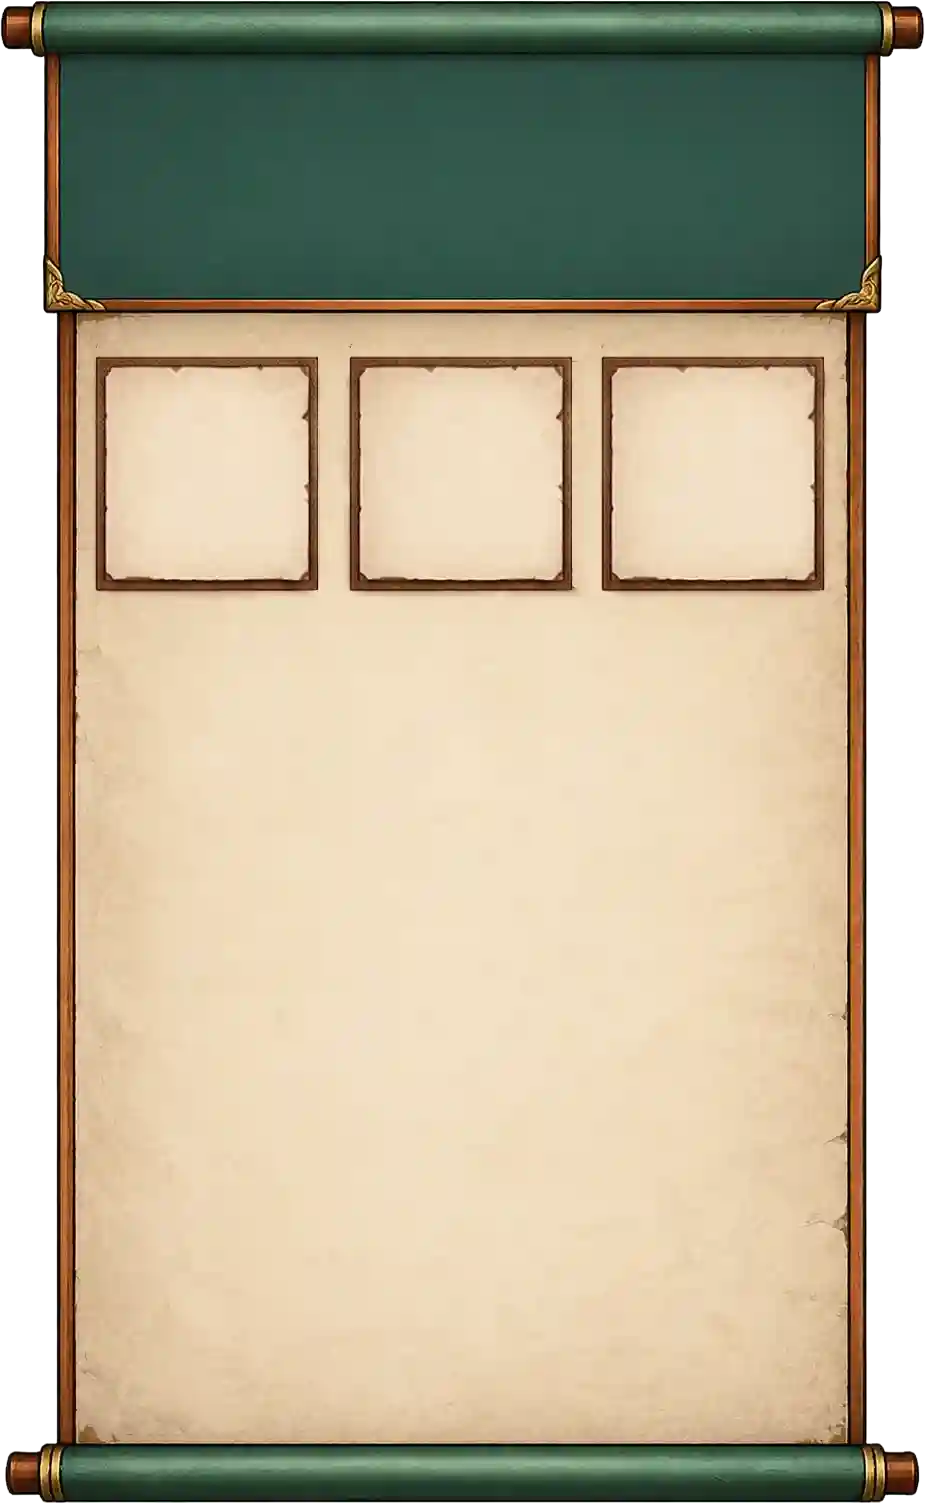
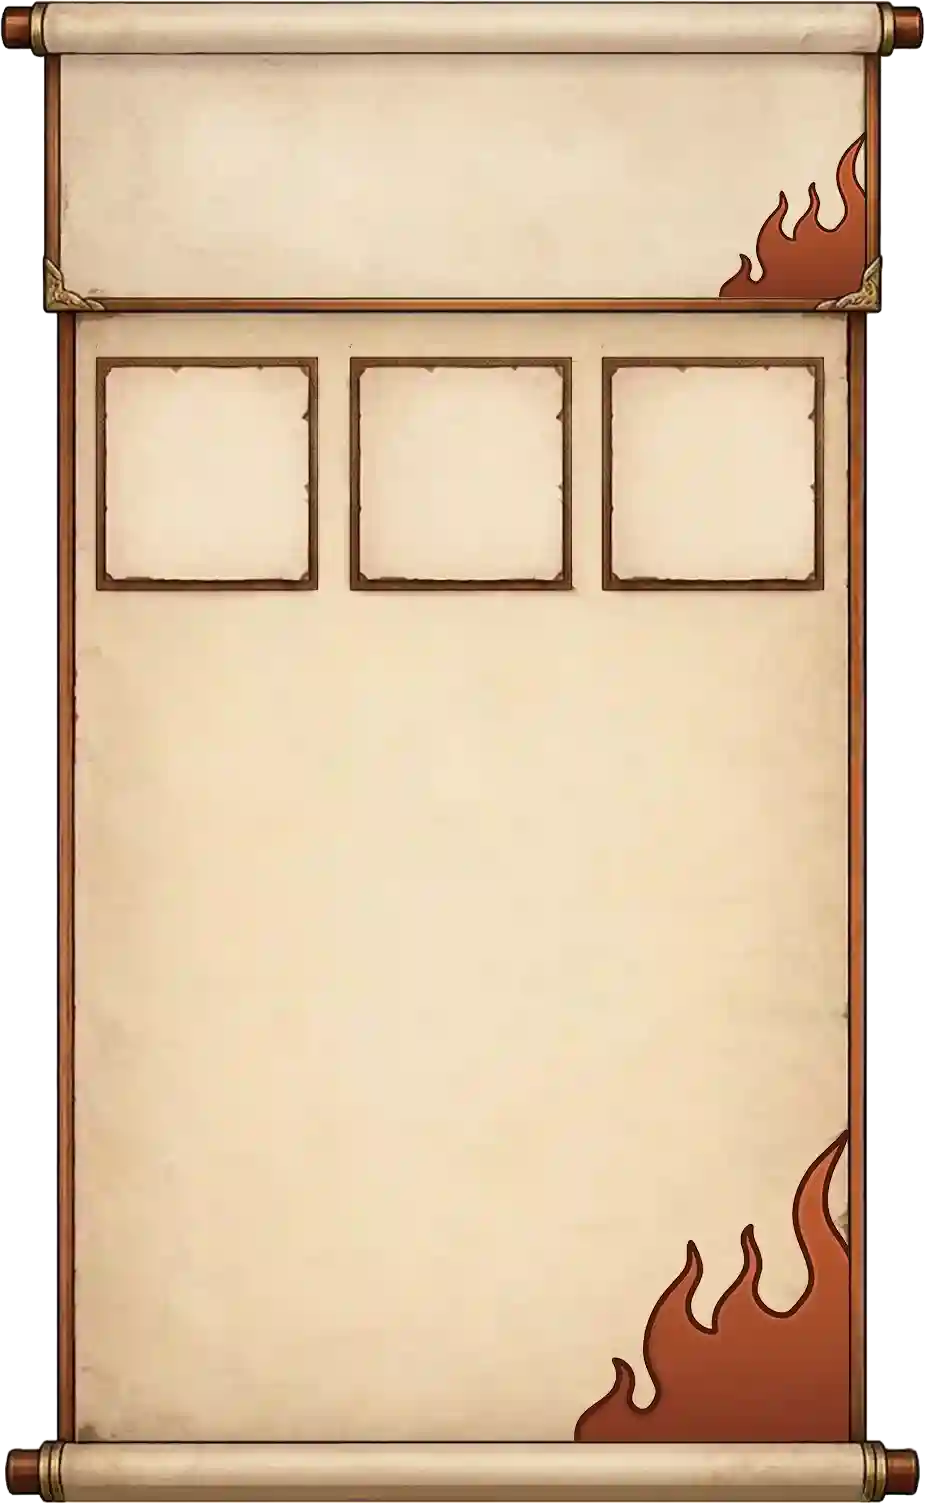
battle

Changed region(s): [[0.0, 0.0, 0.9989, 1.0]]

diff --git a/src/components/BattleBoard.tsx b/src/components/BattleBoard.tsx
@@ -17795,7 +17795,7 @@ const shieldDurText = fmtDur(skill.shieldDuration || 99999);
             </div>
             </div>
           </div>
-          <div className="space-y-4">
+          <div className="space-y-2">
             {playerCombatants.map((combatant, idx) => {
               const isMyTurn = activePlanner === 'player' || isSandbox;
               const isSelectedSource = selectedSkill?.charId === combatant.id;
@@ -17840,18 +17840,26 @@ const shieldDurText = fmtDur(skill.shieldDuration || 99999);
                   {/* Main Combatant Card Container */}
                   <div
 onClick={() => handleSelectTarget(combatant.id, false)}
-                    className={`flex-1 relative p-4 rounded-xl border bg-slate-900/60 transition-all ${
+                    className={`flex-1 relative isolate p-5 rounded-xl transition-all ${
                       combatant.isDead
                         ? (combatant.isDead && isMyTurn && isReviveSelectionActive()
-                          ? 'border-emerald-500/70 hover:border-emerald-400 hover:shadow-emerald-500/20 bg-emerald-950/30 opacity-80 cursor-pointer shadow-lg animate-pulse'
-                          : 'border-slate-950 bg-slate-950/40 opacity-40 pointer-events-none')
+                          ? 'opacity-80 cursor-pointer shadow-lg shadow-emerald-500/30 ring-2 ring-emerald-500/40 hover:ring-emerald-400/80 animate-pulse'
+                          : 'opacity-40 pointer-events-none')
                         : !isMyTurn
-                        ? 'border-slate-800/50 opacity-50'
+                        ? 'opacity-50'
                         : selectedSkill && selectedSkill.charId !== combatant.id
-                        ? 'border-blue-500/40 hover:border-blue-500 bg-blue-950/5 cursor-pointer shadow-lg shadow-blue-500/5'
-                        : 'border-slate-800'
+                        ? 'cursor-pointer'
+                        : ''
                     }`}
                   >
+                    {/* P-batalha parchment background (lado aliado) */}
+                    <img
+                      src="/static/img/ui/p-batalha.webp"
+                      alt=""
+                      aria-hidden
+                      draggable={false}
+                      className="absolute inset-0 w-full h-full object-cover rounded-xl -z-10 pointer-events-none select-none"
+                    />
                     {/* Floating combat numbers portal */}
                     <div className="absolute -top-3 left-4 z-10 flex flex-col gap-1 pointer-events-none">
                       {floatingTexts
@@ -17916,7 +17924,7 @@ onClick={() => handleSelectTarget(combatant.id, false)}
                   )}
 
                   {/* Character Info */}
-                  <div className="flex gap-3">
+                  <div className="flex gap-4">
                     {(() => {
                       const isInvul = checkCombatantInvulnerable(combatant);
                       const invulnEff = isInvul ? combatant.activeEffects.find(e => e.type === 'invulnerable') : undefined;
@@ -17929,7 +17937,7 @@ onClick={() => handleSelectTarget(combatant.id, false)}
                       const displayPortrait = (isInvul && invulnSkillIcon) ? invulnSkillIcon : combatant.character.portrait;
 
                       return (
-                        <div className={`w-14 h-14 rounded-lg overflow-hidden border flex-shrink-0 relative transition-all ${
+                        <div className={`w-16 h-16 rounded-lg overflow-hidden border flex-shrink-0 relative transition-all ${
                           isInvul ? 'border-cyan-400 shadow-[0_0_12px_rgba(34,211,238,0.8)] bg-slate-950' : 'border-slate-800 bg-slate-950'
                         }`}>
                           <MangekyoLoader
@@ -17962,9 +17970,9 @@ onClick={() => handleSelectTarget(combatant.id, false)}
                       );
                     })()}
 
-                    <div className="flex-1 space-y-1.5">
+                    <div className="flex-1 space-y-2">
                       <div className="flex justify-between items-start">
-                        <h4 className="font-bold text-sm tracking-tight flex items-center gap-1.5 flex-wrap">
+                        <h4 className="font-bold text-base tracking-tight text-[#823500] flex items-center gap-1.5 flex-wrap">
                           {combatant.character.name}
                           {checkCombatantInvulnerable(combatant) && (
                             <span className="inline-flex items-center gap-0.5 text-[8px] bg-cyan-600/90 border border-cyan-300/80 text-white px-1.5 py-0.5 rounded-full font-mono font-black uppercase tracking-wide shadow-[0_0_8px_rgba(34,211,238,0.7)]">
@@ -17992,11 +18000,11 @@ onClick={() => handleSelectTarget(combatant.id, false)}
 
                       {/* Health bar */}
                       <div className="space-y-1">
-                        <div className="flex justify-between text-[10px] font-mono text-slate-400 leading-none">
+                        <div className="flex justify-between text-[11px] font-mono text-slate-400 leading-none">
                            
-                          <span className="font-bold text-slate-100">{combatant.health} / {combatant.maxHealth}</span>
+                          <span className="font-bold text-[#cb6a22]">{combatant.health} / {combatant.maxHealth}</span>
                         </div>
-                        <div className="h-2 w-full bg-slate-950 rounded-full overflow-hidden border border-slate-900">
+                        <div className="h-2.5 w-full bg-slate-950 rounded-full overflow-hidden border border-slate-900">
                           <div
                             className={`h-full transition-all duration-300 ${getHealthColor(combatant.health)}`}
                             style={{ width: `${combatant.health}%` }}
@@ -18170,7 +18178,7 @@ onClick={() => handleSelectTarget(combatant.id, false)}
                     const paginatedSkills = combatant.character.skills.slice(skillsPage * skillsPerPage, (skillsPage + 1) * skillsPerPage);
 
                     return (
-                      <div className="relative pt-3 mt-3 border-t border-slate-800/80">
+                      <div className="relative pt-1 mt-1">
                         {/* Left side pagination arrow */}
                         {totalSkillPages > 1 && (
                           <button
@@ -18192,7 +18200,7 @@ onClick={() => handleSelectTarget(combatant.id, false)}
                           </button>
                         )}
 
-                        <div className="grid grid-cols-4 gap-2">
+                        <div className="grid grid-cols-4 gap-2.5">
                           {paginatedSkills.map((skill, pIdx) => {
                             const sIdx = skillsPage * skillsPerPage + pIdx;
                             const isCooldown = skill.currentCooldown > 0;
@@ -18606,7 +18614,7 @@ onClick={() => handleSelectTarget(combatant.id, false)}
               <div className="flex flex-col h-full space-y-3">
                 {/* Top Green Header Area: No dark background box, clean alignment over green top banner */}
                 <div className="flex items-center gap-3 px-1 pt-0.5 pb-2" style={{ marginTop: '-5px' }}>
-                  <div className="w-12 h-12 rounded-lg overflow-hidden border border-amber-300/60 flex-shrink-0 bg-black/40 shadow-md">
+                  <div className="w-12 h-12 rounded-lg overflow-hidden border border-[#823500] flex-shrink-0 bg-black/40 shadow-md">
                     <img 
                       src={inspectedSkill.skill.icon || null} 
                       alt={inspectedSkill.skill.name} 
@@ -18620,7 +18628,7 @@ onClick={() => handleSelectTarget(combatant.id, false)}
                     <div className="flex flex-wrap items-center gap-2">
                       <div className="group relative inline-block max-w-full">
                         <h4 
-                          className="font-extrabold text-sm sm:text-base text-white tracking-tight drop-shadow-[0_1.5px_3px_rgba(0,0,0,0.9)] leading-tight"
+                          className="font-extrabold text-sm sm:text-base text-[#823500] tracking-tight drop-shadow-[0_1px_1px_rgba(255,255,255,0.6)] leading-tight"
                         >
                           {translateSkillName(inspectedSkill.skill.name, language)}
                         </h4>
@@ -18641,7 +18649,7 @@ onClick={() => handleSelectTarget(combatant.id, false)}
                 </div>
 
                 {/* 3 Papers Grid: Custo, Recarga, Alvo positioned cleanly over paper artwork */}
-                <div className="grid grid-cols-3 gap-1 font-mono pb-3.5 px-1" style={{ paddingTop: '11px' }}>
+                <div className="grid grid-cols-3 gap-1 font-mono pb-3.5 px-1" style={{ paddingTop: '13px' }}>
                   {/* Paper 1: Custo */}
                   <div className="flex flex-col justify-center items-center text-center p-0.5 min-w-0">
                    
@@ -18939,7 +18947,7 @@ onClick={() => handleSelectTarget(combatant.id, false)}
             </div>
           </div>
        
-          <div className="space-y-4">
+          <div className="space-y-2">
             {enemyCombatants.map((combatant, idx) => {
               const isStunned = combatant.activeEffects.some(e => e.type === 'stun' && isEffectVisibleToViewer(e, 'player', playerCombatants, combatant, [...playerCombatants, ...enemyCombatants]));
               const incomingCues = getIncomingCuesForCombatant(combatant);
@@ -18949,16 +18957,24 @@ onClick={() => handleSelectTarget(combatant.id, false)}
                   {/* Main Combatant Card Container */}
                   <div
 onClick={() => handleSelectTarget(combatant.id, true)}
-                    className={`flex-1 relative p-4 rounded-xl border bg-slate-900/60 transition-all ${
+                    className={`flex-1 relative isolate p-5 rounded-xl transition-all ${
                       combatant.isDead
                         ? (isReviveSelectionActive()
-                          ? 'border-emerald-500/70 hover:border-emerald-400 hover:shadow-emerald-500/20 bg-emerald-950/30 opacity-80 cursor-pointer shadow-lg animate-pulse'
-                          : 'border-slate-950 bg-slate-950/40 opacity-40 pointer-events-none')
+                          ? 'opacity-80 cursor-pointer shadow-lg shadow-emerald-500/30 ring-2 ring-emerald-500/40 hover:ring-emerald-400/80 animate-pulse'
+                          : 'opacity-40 pointer-events-none')
                         : selectedSkill && selectedSkill.charId !== combatant.id
-                        ? 'border-red-500/40 hover:border-red-500 bg-red-950/5 cursor-pointer shadow-lg shadow-red-500/5'
-                        : 'border-slate-800'
+                        ? 'cursor-pointer shadow-lg shadow-red-500/25 ring-2 ring-red-500/40 hover:ring-red-400/80'
+                        : ''
                     }`}
                   >
+                    {/* P-batalha parchment background (espelhada para o lado inimigo) */}
+                    <img
+                      src="/static/img/ui/p-batalha.webp"
+                      alt=""
+                      aria-hidden
+                      draggable={false}
+                      className="absolute inset-0 w-full h-full object-cover rounded-xl scale-x-[-1] -z-10 pointer-events-none select-none"
+                    />
                     {/* Floating combat numbers portal */}
                     <div className="absolute -top-3 left-4 z-10 flex flex-col gap-1 pointer-events-none">
                       {floatingTexts
@@ -19023,7 +19039,7 @@ onClick={() => handleSelectTarget(combatant.id, true)}
                   )}
 
                   {/* Character Info */}
-                  <div className="flex gap-3 flex-row-reverse">
+                  <div className="flex gap-4 flex-row-reverse">
                     {(() => {
                       const isInvul = checkCombatantInvulnerable(combatant);
                       const invulnEff = isInvul ? combatant.activeEffects.find(e => e.type === 'invulnerable') : undefined;
@@ -19036,7 +19052,7 @@ onClick={() => handleSelectTarget(combatant.id, true)}
                       const displayPortrait = (isInvul && invulnSkillIcon) ? invulnSkillIcon : combatant.character.portrait;
 
                       return (
-                        <div className={`w-14 h-14 rounded-lg overflow-hidden border flex-shrink-0 relative transition-all ${
+                        <div className={`w-16 h-16 rounded-lg overflow-hidden border flex-shrink-0 relative transition-all ${
                           isInvul ? 'border-cyan-400 shadow-[0_0_12px_rgba(34,211,238,0.8)] bg-slate-950' : 'border-slate-800 bg-slate-950'
                         }`}>
                           <MangekyoLoader
@@ -19070,9 +19086,9 @@ onClick={() => handleSelectTarget(combatant.id, true)}
                       );
                     })()}
 
-                    <div className="flex-1 space-y-1.5">
+                    <div className="flex-1 space-y-2">
                       <div className="flex items-start gap-2 flex-row-reverse">
-                        <h4 className="font-bold text-sm tracking-tight flex items-center gap-1.5 flex-wrap justify-end text-right">
+                        <h4 className="font-bold text-base tracking-tight text-[#823500] flex items-center gap-1.5 flex-wrap justify-end text-right">
                           {combatant.character.name}
                           {checkCombatantInvulnerable(combatant) && (
                             <span className="inline-flex items-center gap-0.5 text-[8px] bg-cyan-600/90 border border-cyan-300/80 text-white px-1.5 py-0.5 rounded-full font-mono font-black uppercase tracking-wide shadow-[0_0_8px_rgba(34,211,238,0.7)]">
@@ -19100,11 +19116,11 @@ onClick={() => handleSelectTarget(combatant.id, true)}
 
                       {/* Health bar */}
                       <div className="space-y-1">
-                        <div className="flex justify-end text-[10px] font-mono text-slate-400 leading-none">
+                        <div className="flex justify-end text-[11px] font-mono text-slate-400 leading-none">
                            
-                          <span className="font-bold text-slate-100">{combatant.health} / {combatant.maxHealth}</span>
+                          <span className="font-bold text-[#cb6a22]">{combatant.health} / {combatant.maxHealth}</span>
                         </div>
-                        <div className="h-2 w-full bg-slate-950 rounded-full overflow-hidden border border-slate-900">
+                        <div className="h-2.5 w-full bg-slate-950 rounded-full overflow-hidden border border-slate-900">
                           <div
                             className={`h-full transition-all duration-300 ${getHealthColor(combatant.health)}`}
                             style={{ width: `${combatant.health}%` }}
@@ -19284,7 +19300,7 @@ onClick={() => handleSelectTarget(combatant.id, true)}
                     const paginatedSkills = combatant.character.skills.slice(skillsPage * skillsPerPage, (skillsPage + 1) * skillsPerPage);
 
                     return (
-                      <div className="relative pt-3 mt-3 border-t border-slate-800/80">
+                      <div className="relative pt-1 mt-1">
                         {/* Left side pagination arrow */}
                         {totalSkillPages > 1 && (
                           <button
@@ -19306,7 +19322,7 @@ onClick={() => handleSelectTarget(combatant.id, true)}
                           </button>
                         )}
 
-                        <div className="grid grid-cols-4 gap-2">
+                        <div className="grid grid-cols-4 gap-2.5">
                           {paginatedSkills.map((skill, pIdx) => {
                             const sIdx = skillsPage * skillsPerPage + pIdx;
                             const isCooldown = skill.currentCooldown > 0;
